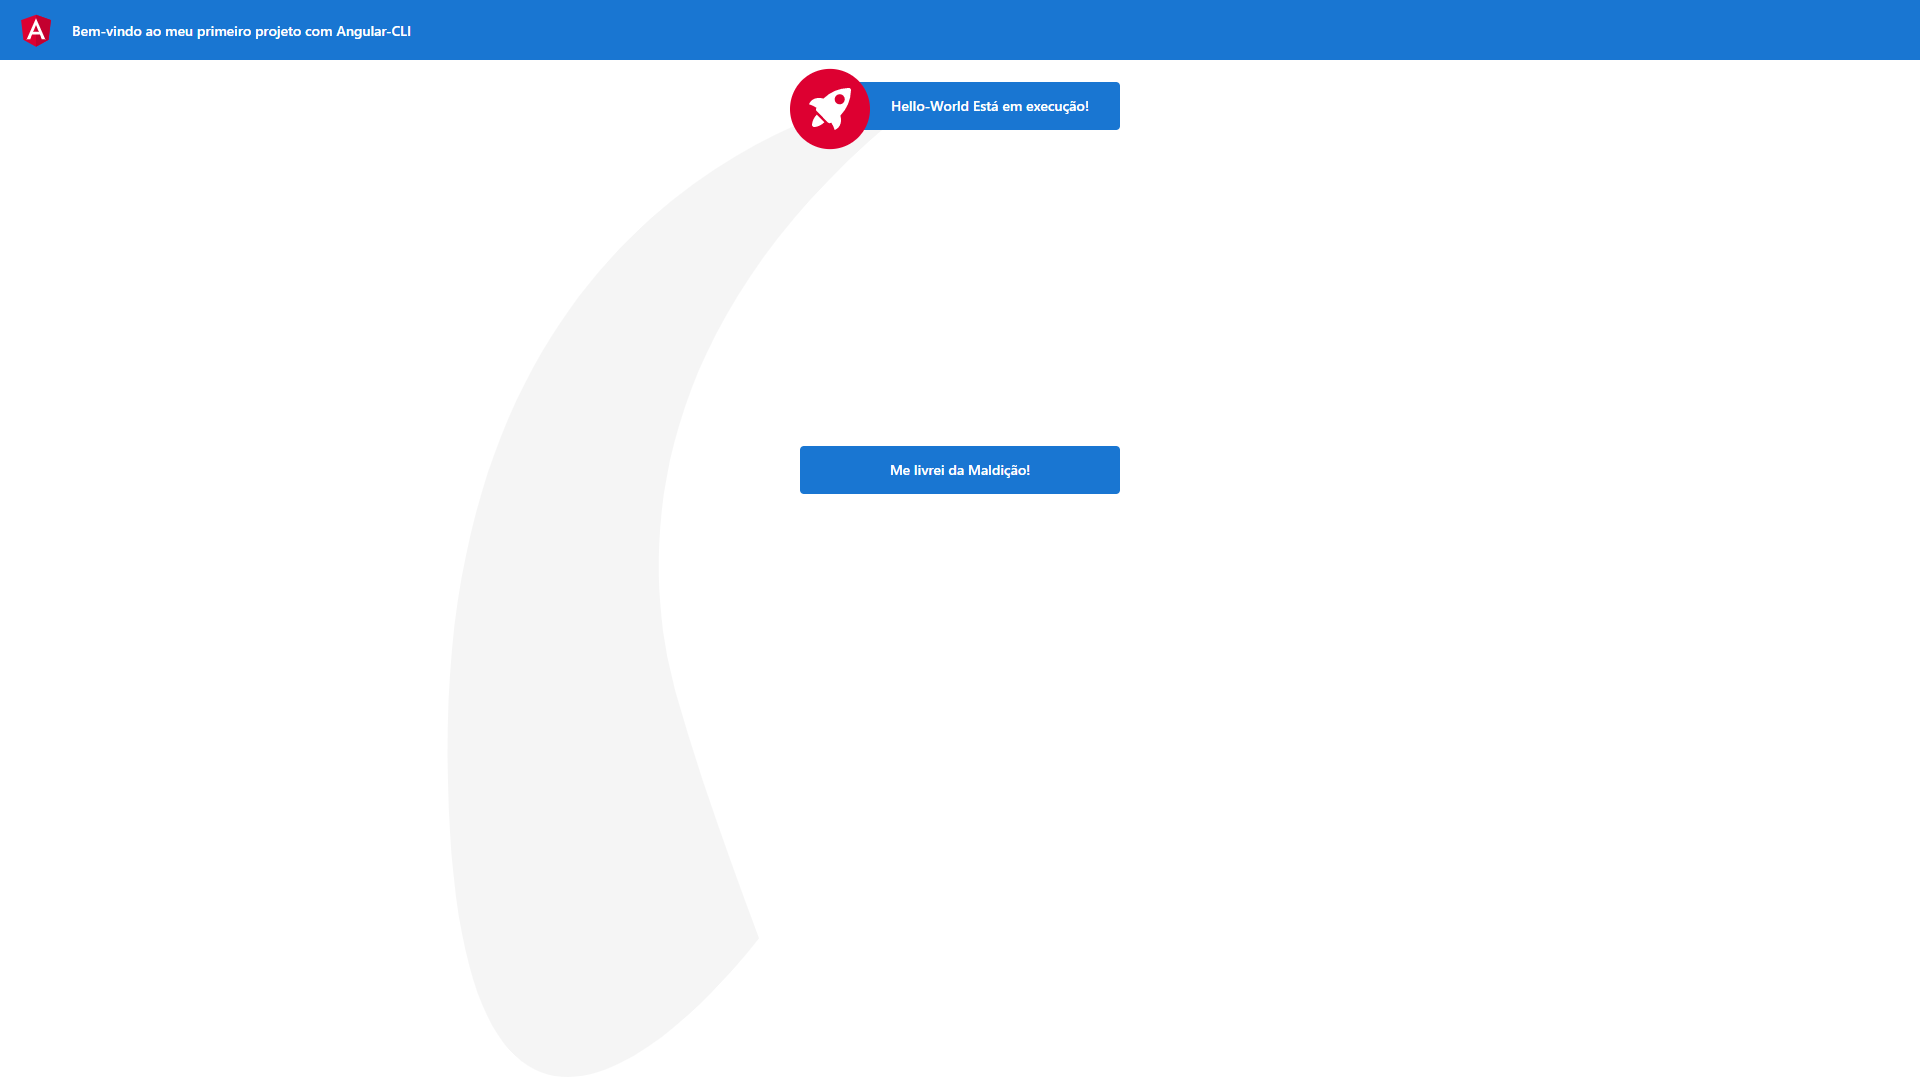
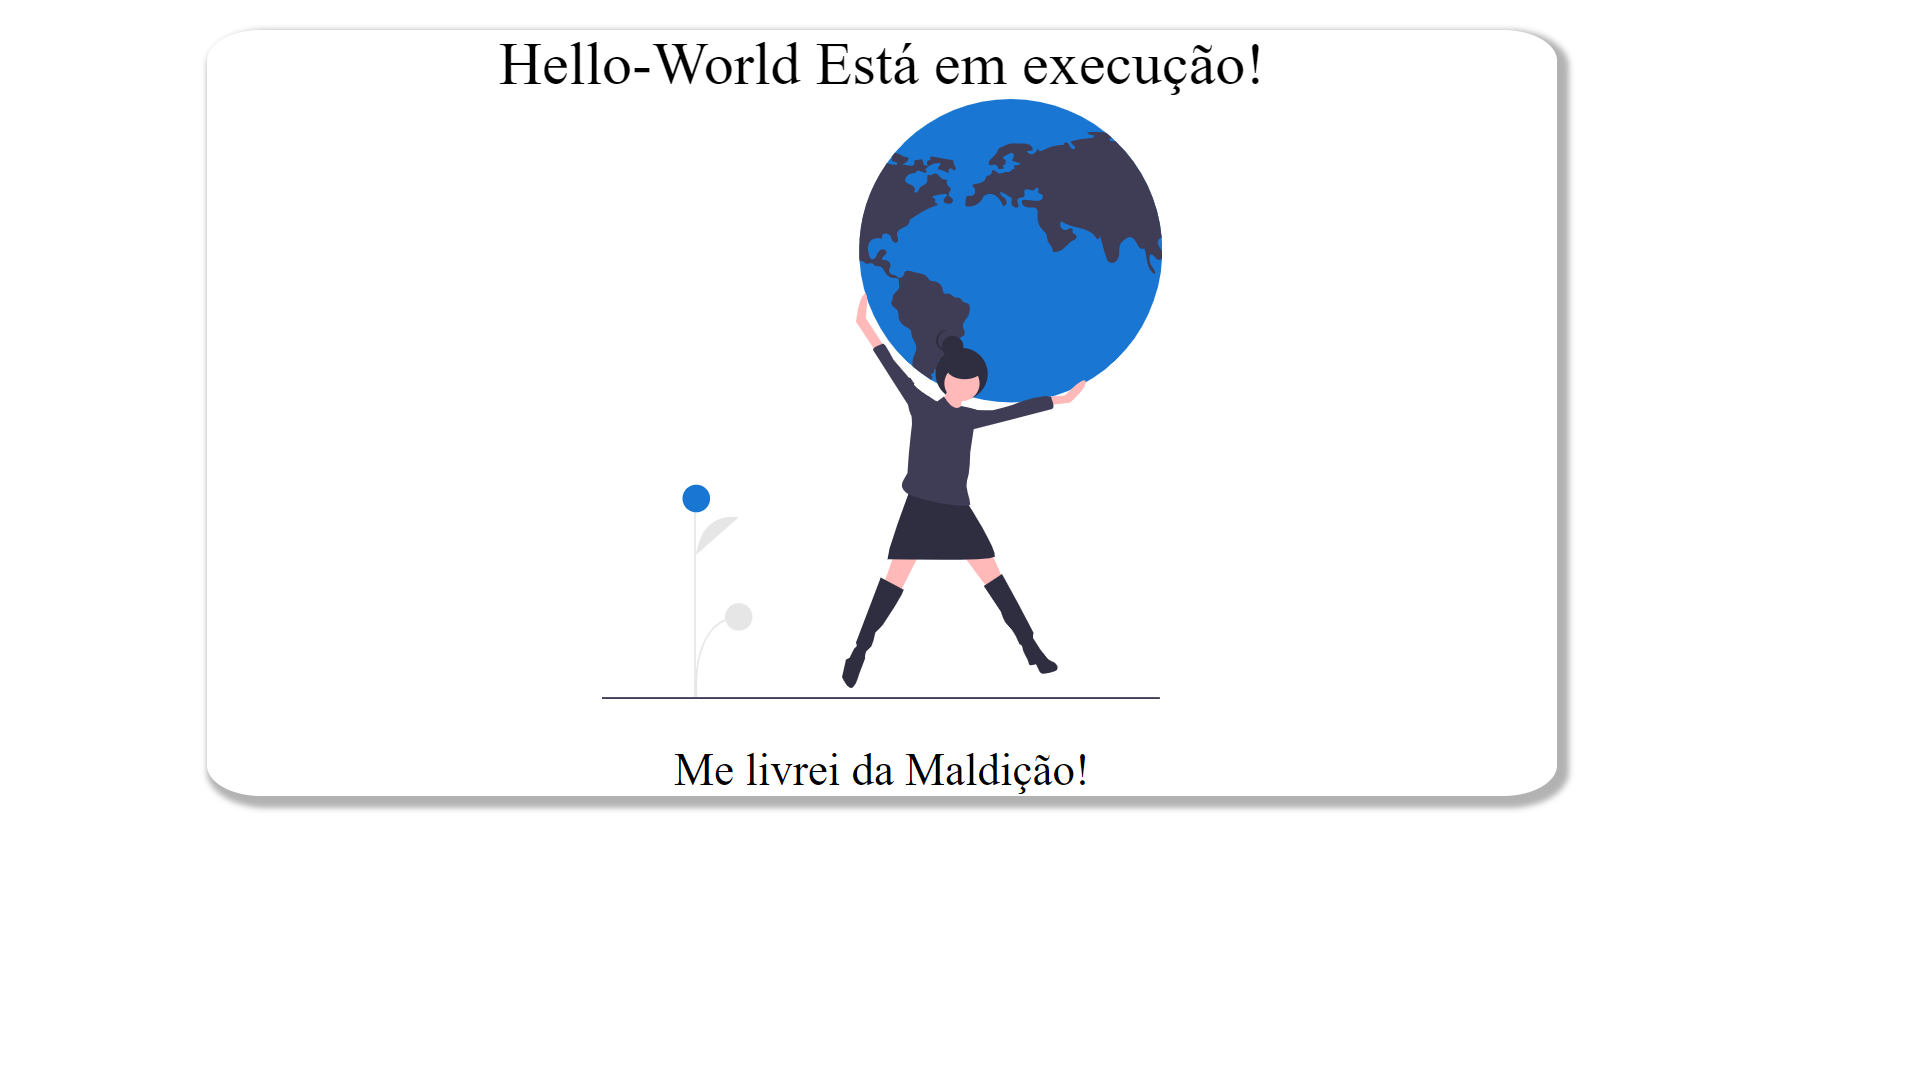
atualiza

diff --git a/primeiro-projeto/src/app/app.component.html b/primeiro-projeto/src/app/app.component.html
@@ -1,175 +1,41 @@
-<!-- * * * * * * * * * * * * * * * * * * * * * * * * * * * * * * * -->
-<!-- * * * * * * * * * * * The content below * * * * * * * * * * * -->
-<!-- * * * * * * * * * * is only a placeholder * * * * * * * * * * -->
-<!-- * * * * * * * * * * and can be replaced. * * * * * * * * * * * -->
-<!-- * * * * * * * * * * * * * * * * * * * * * * * * * * * * * * * -->
-<!-- * * * * * * * * * Delete the template below * * * * * * * * * * -->
-<!-- * * * * * * * to get started with your project! * * * * * * * * -->
-<!-- * * * * * * * * * * * * * * * * * * * * * * * * * * * * * * * -->
-
 <style>
-  :host {
-    font-family: -apple-system, BlinkMacSystemFont, "Segoe UI", Roboto, Helvetica, Arial, sans-serif, "Apple Color Emoji", "Segoe UI Emoji", "Segoe UI Symbol";
-    font-size: 14px;
-    color: #333;
-    box-sizing: border-box;
-    -webkit-font-smoothing: antialiased;
-    -moz-osx-font-smoothing: grayscale;
-  }
 
  
-
-  .toolbar {
-    position: absolute;
-    top: 0;
-    left: 0;
-    right: 0;
-    height: 60px;
-    display: flex;
-    align-items: center;
-    background-color: #1976d2;
-    color: white;
-    font-weight: 600;
+  .container{
+    border-radius: 4%;
+    text-align: center;
+    box-shadow: 4px 4px 4px 4px rgba(0, 0, 0, 0.3);
+  margin-top: 20px;
+    background-color: rgb(255, 255, 255);
+    width: 900px;
+    margin-left: 130px;
   }
-
-  .toolbar img {
-    margin: 0 16px;
-  }
-  .content {
-    display: flex;
-    margin: 82px auto 32px;
-    padding: 0 16px;
-    max-width: 960px;
-    flex-direction: column;
-    align-items: center;
-  }
-
-  .card {
-    border-radius: 4px;
-    border: 1px solid #eee;
-    background-color: #fafafa;
-    height: 40px;
-    width: 200px;
-    margin: 0 8px 16px;
-    padding: 16px;
-    display: flex;
-    flex-direction: row;
-    justify-content: center;
-    align-items: center;
-    transition: all 0.2s ease-in-out;
-    line-height: 24px;
-  }
-
-  .card-container .card:not(:last-child) {
-    margin-right: 0;
-  }
-
-  .card.card-small {
-    height: 16px;
-    width: 168px;
-  }
-
-  .card-container .card:not(.highlight-card) {
-    cursor: pointer;
-  }
-
-  .card-container .card:not(.highlight-card):hover {
-    transform: translateY(-3px);
-    box-shadow: 0 4px 17px rgba(0, 0, 0, 0.35);
-  }
-
-  .card-container .card:not(.highlight-card):hover .material-icons path {
-    fill: rgb(105, 103, 103);
-  }
-
-  .card.highlight-card {
-    background-color: #1976d2;
-    color: white;
-    font-weight: 600;
-    border: none;
-    width: auto;
-    min-width: 30%;
-    position: relative;
-  }
-
-  .card.card.highlight-card span {
-    margin-left: 60px;
-  }
-
-  svg#rocket {
-    width: 80px;
-    position: absolute;
-    left: -10px;
-    top: -24px;
-  }
-
-  svg#rocket-smoke {
-    height: calc(100vh - 95px);
-    position: absolute;
-    top: 10px;
-    right: 180px;
-    z-index: -10;
-  }
-  .segundo{
-    margin-top: 300px;
+  .topo{
+    font-size: 40px;
+    color: black;
   }
   .img-hero{
-    width: 400px;
+   
     height: 400px;
   }
-
+  .card-segundo{
+    font-size: 30px;
+    color: black;
+  }
 
 </style>
 
-<!-- Toolbar -->
-<div class="toolbar" role="banner">
-  <img
-    width="40"
-    alt="Angular Logo"
[1 lines of base64/hex data omitted]
-  <span>Bem-vindo ao meu primeiro projeto com Angular-CLI</span>
-    <div class="spacer"></div>
-    
-</div>
+  
 
-<div class="content" role="main">
-
-  <!-- Highlight Card -->
-  <div class="card highlight-card card-small">
-
-    <svg id="rocket" alt="Rocket Ship" xmlns="http://www.w3.org/2000/svg" width="101.678" height="101.678" viewBox="0 0 101.678 101.678">
-      <g id="Group_83" data-name="Group 83" transform="translate(-141 -696)">
-        <circle id="Ellipse_8" data-name="Ellipse 8" cx="50.839" cy="50.839" r="50.839" transform="translate(141 696)" fill="#dd0031"/>
-        <g id="Group_47" data-name="Group 47" transform="translate(165.185 720.185)">
-          <path id="Path_33" data-name="Path 33" d="M3.4,42.615a3.084,3.084,0,0,0,3.553,3.553,21.419,21.419,0,0,0,12.215-6.107L9.511,30.4A21.419,21.419,0,0,0,3.4,42.615Z" transform="translate(0.371 3.363)" fill="#fff"/>
-          <path id="Path_34" data-name="Path 34" d="M53.3,3.221A3.09,3.09,0,0,0,50.081,0,48.227,48.227,0,0,0,18.322,13.437c-6-1.666-14.991-1.221-18.322,7.218A33.892,33.892,0,0,1,9.439,25.1l-.333.666a3.013,3.013,0,0,0,.555,3.553L23.985,43.641a2.9,2.9,0,0,0,3.553.555l.666-.333A33.892,33.892,0,0,1,32.647,53.3c8.55-3.664,8.884-12.326,7.218-18.322A48.227,48.227,0,0,0,53.3,3.221ZM34.424,9.772a6.439,6.439,0,1,1,9.106,9.106,6.368,6.368,0,0,1-9.106,0A6.467,6.467,0,0,1,34.424,9.772Z" transform="translate(0 0.005)" fill="#fff"/>
-        </g>
-      </g>
-    </svg>
-
+<div class="container">
+  <div class="topo">
     <span>{{ title }} Está em execução!</span>
-
-    <svg id="rocket-smoke" alt="Rocket Ship Smoke" xmlns="http://www.w3.org/2000/svg" width="516.119" height="1083.632" viewBox="0 0 516.119 1083.632">
-      <path id="Path_40" data-name="Path 40" d="M644.6,141S143.02,215.537,147.049,870.207s342.774,201.755,342.774,201.755S404.659,847.213,388.815,762.2c-27.116-145.51-11.551-384.124,271.9-609.1C671.15,139.365,644.6,141,644.6,141Z" transform="translate(-147.025 -140.939)" fill="#f5f5f5"/>
-    </svg>
-
   </div>
-
   <div class="img-hero">
-    <img src="../assets/img/undraw_the_world_is_mine_nb0e.svg" alt="">
+    <img src="../assets/img/undraw_the_world_is_mine_nb0e.svg" class="img-hero" alt="">
   </div>
-<div class="card highlight-card card-small segundo">
+<div class="card-segundo">
   <app-meu-primeiro2></app-meu-primeiro2>
 </div>
 </div>
-
-<!-- * * * * * * * * * * * * * * * * * * * * * * * * * * * * * * * -->
-<!-- * * * * * * * * * * * The content above * * * * * * * * * * * -->
-<!-- * * * * * * * * * * is only a placeholder * * * * * * * * * * -->
-<!-- * * * * * * * * * * and can be replaced. * * * * * * * * * * * -->
-<!-- * * * * * * * * * * * * * * * * * * * * * * * * * * * * * * * -->
-<!-- * * * * * * * * * * End of Placeholder * * * * * * * * * * * -->
-<!-- * * * * * * * * * * * * * * * * * * * * * * * * * * * * * * * -->
-
-
 
